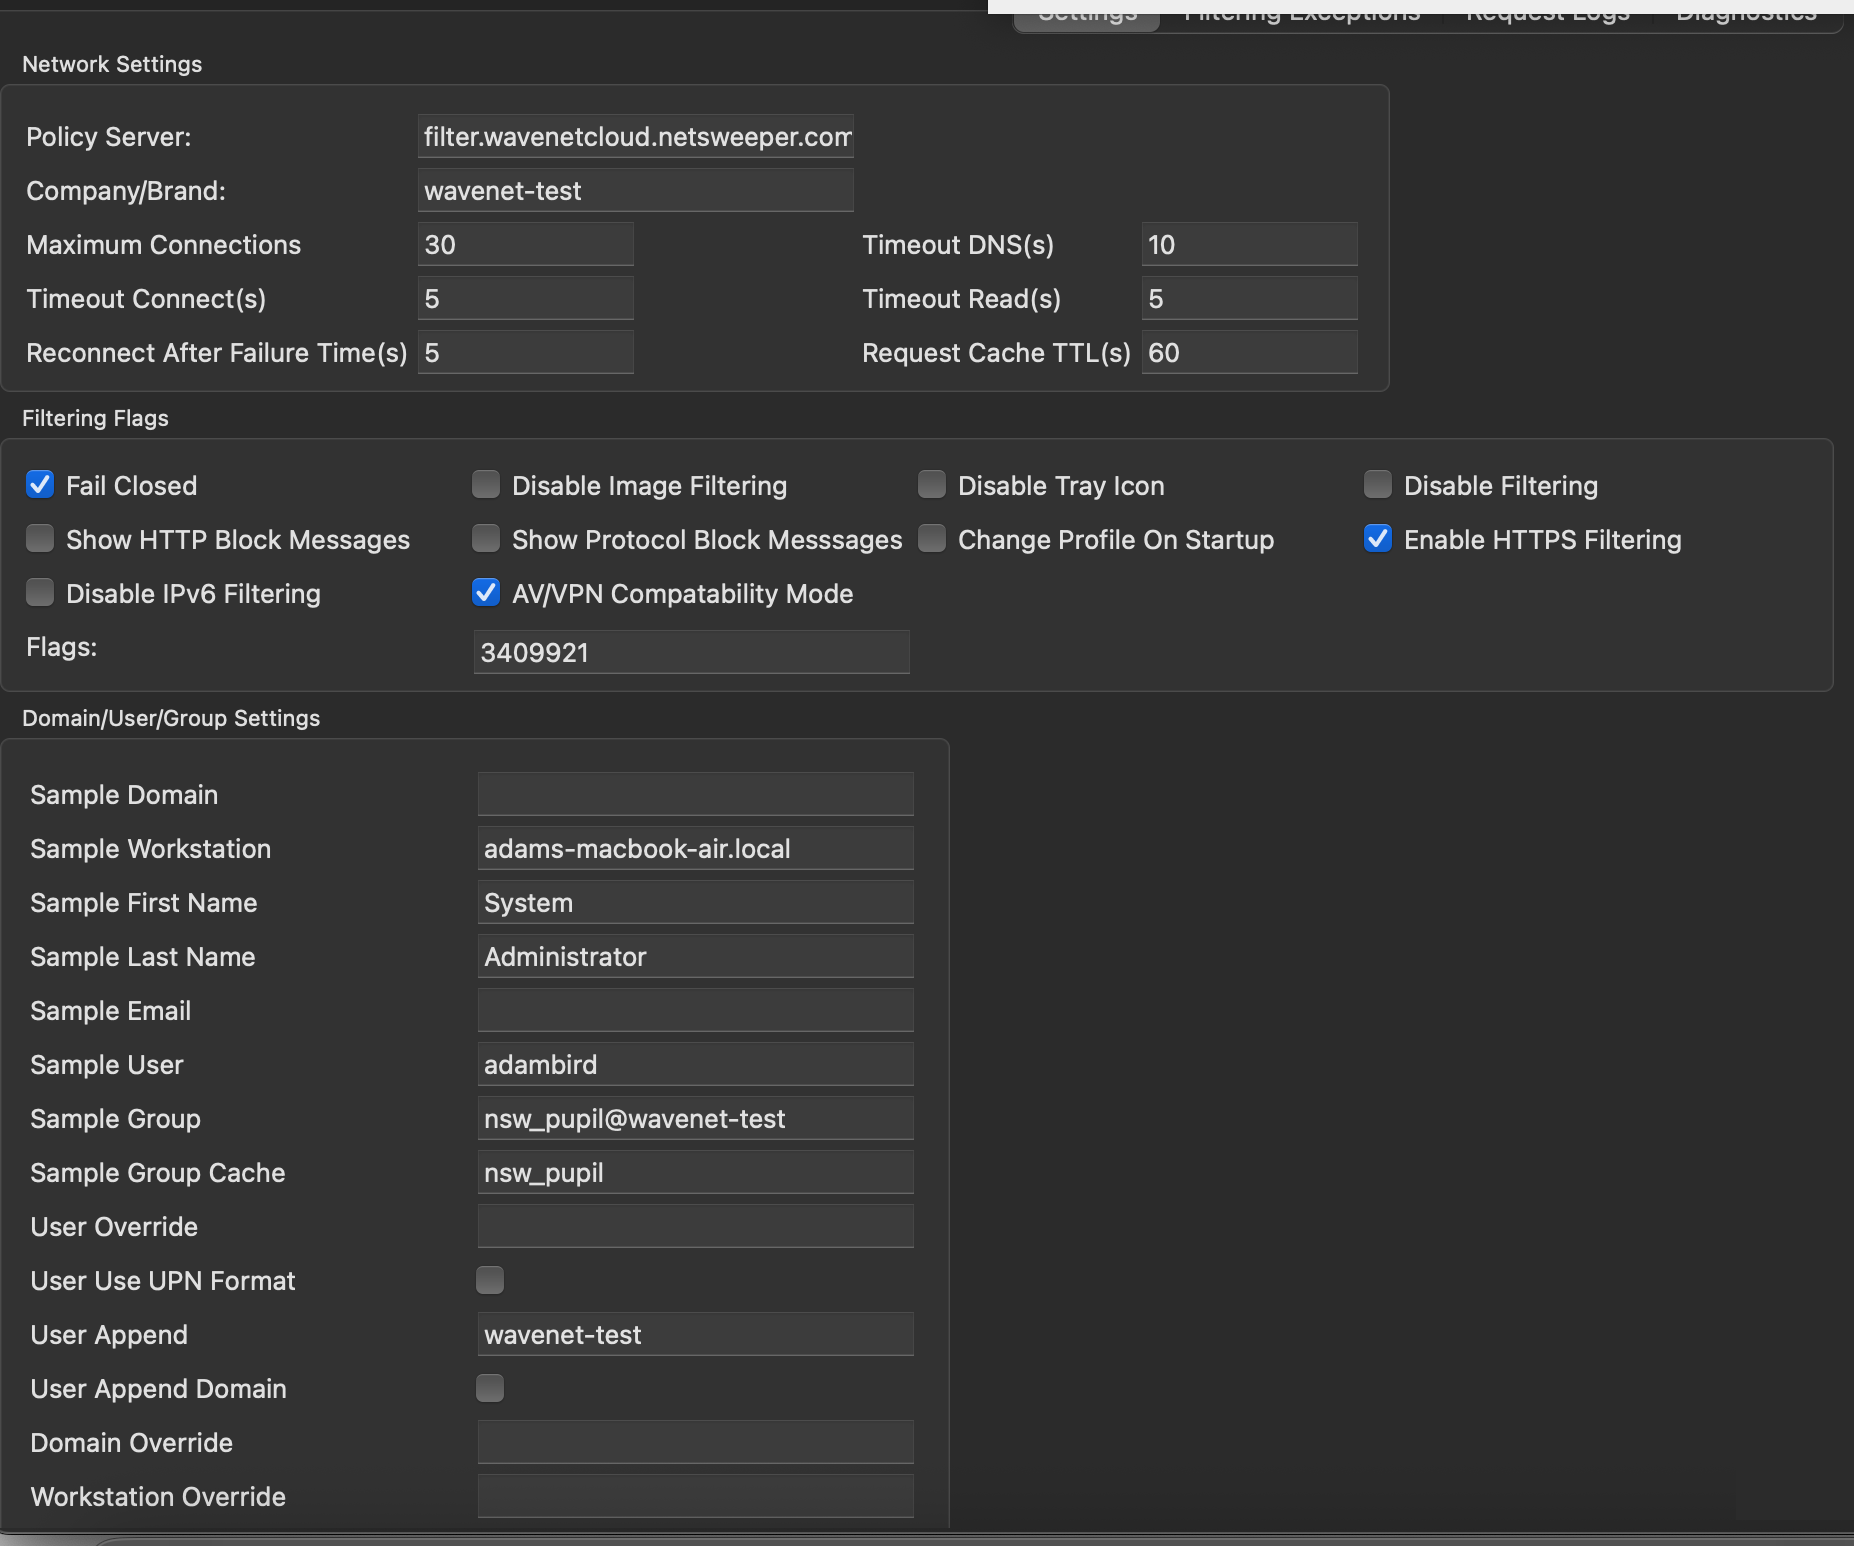
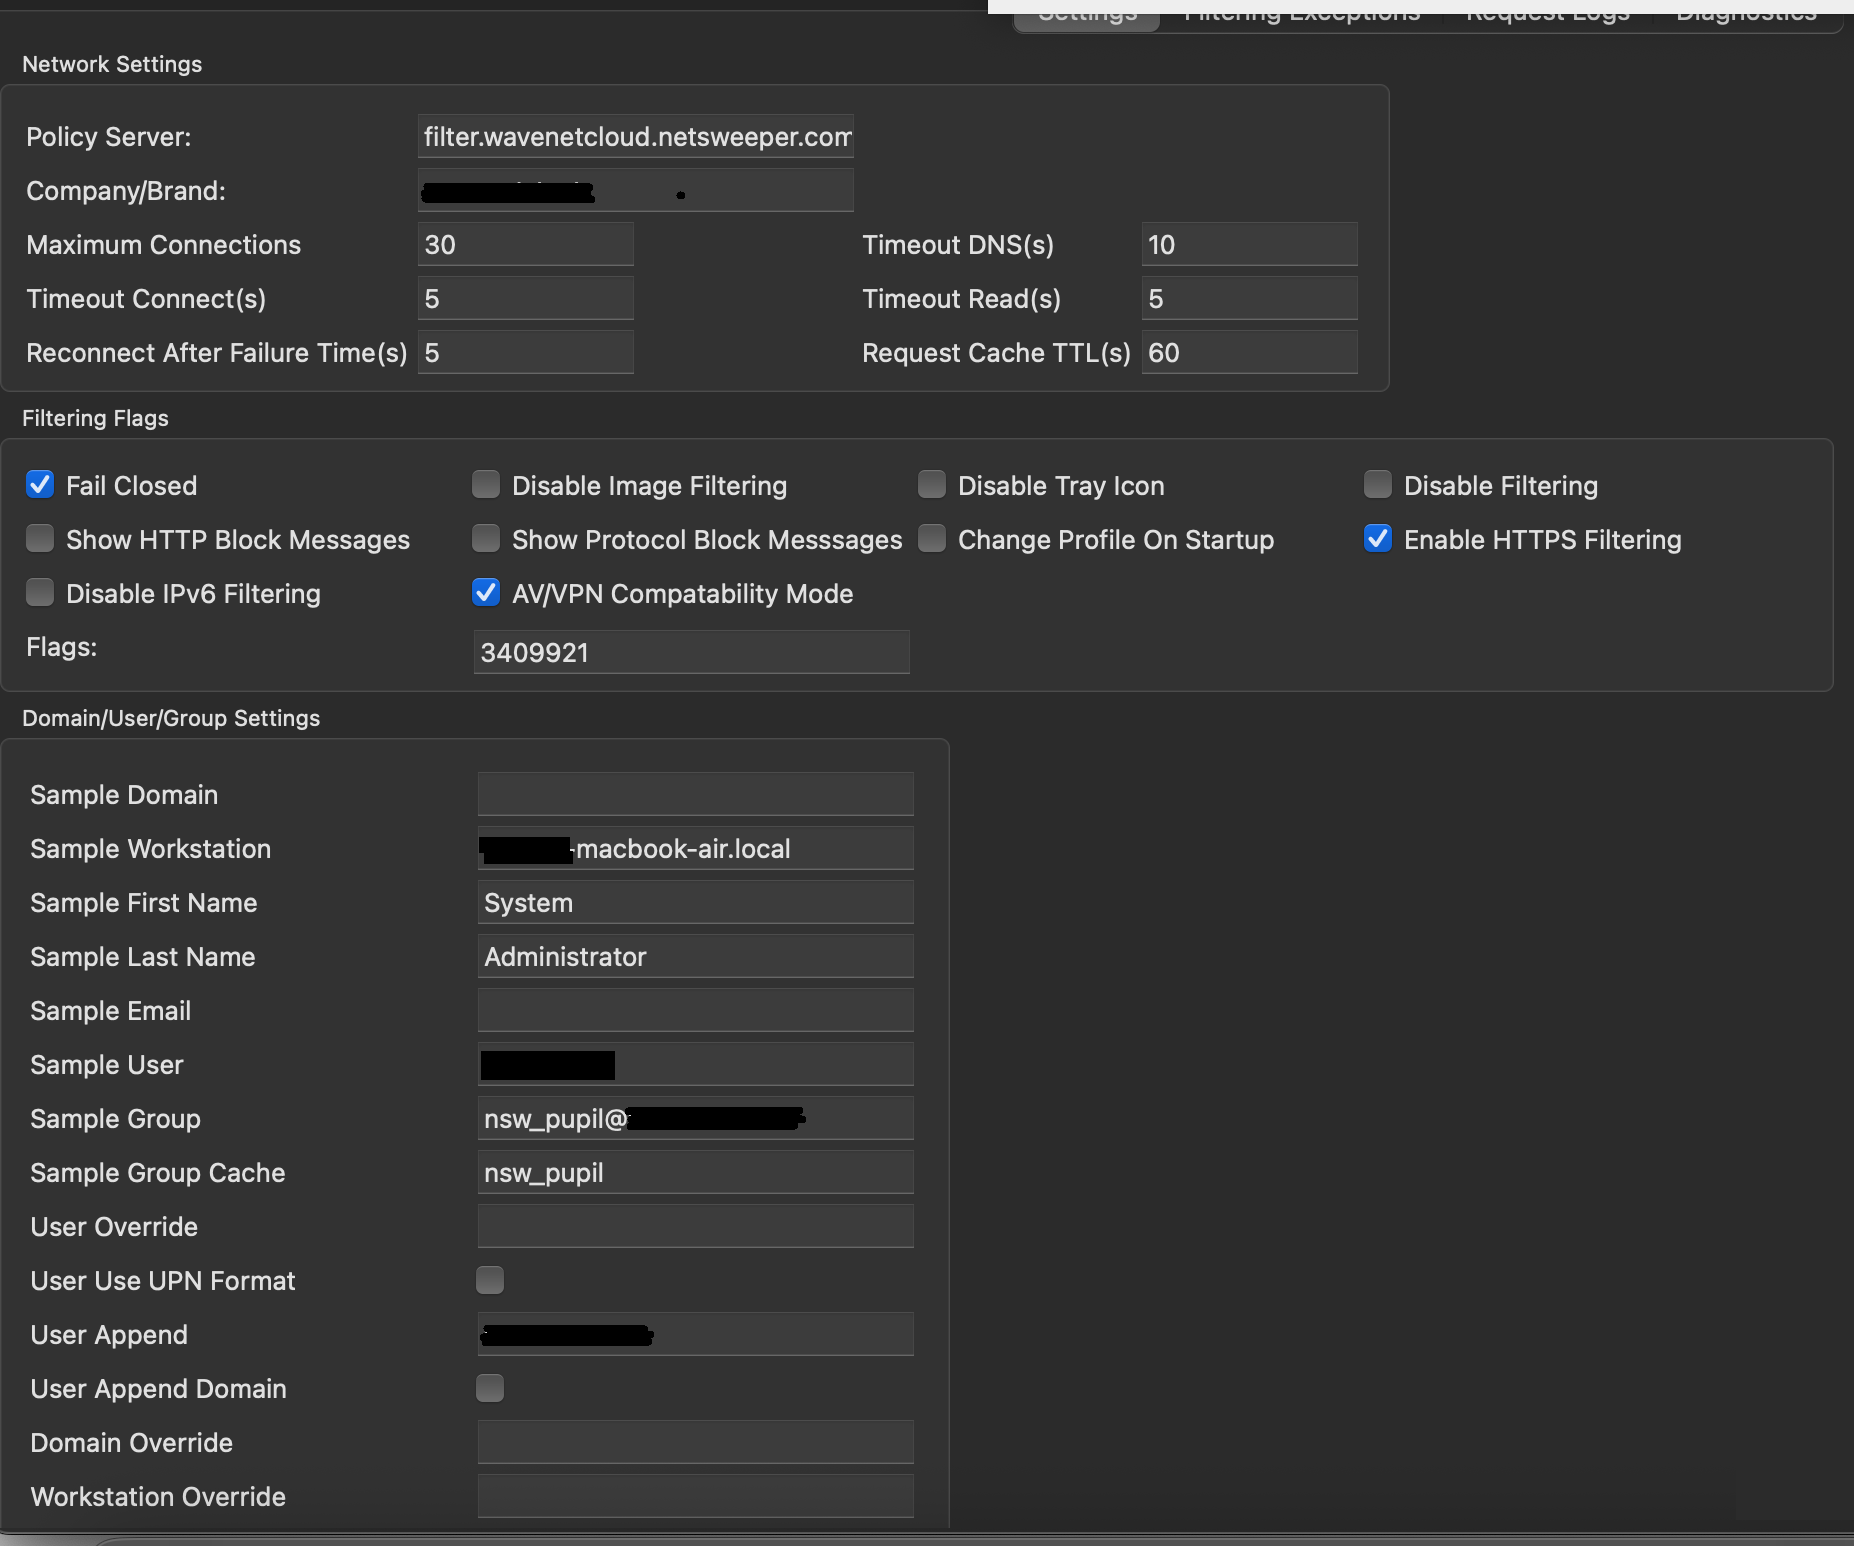
Refactor code structure for improved readability and maintainability

diff --git a/site/Apple/index.html b/site/Apple/index.html
@@ -1019,8 +1019,9 @@ Notice LightspeedMDM requires the DFE code on the "-n" as well as the "-d" optio
 <p>The Wavenet Helpdesk will generate the MACOS Wagent and Client Filter configurations for the below.</p>
 <h3 id="ssl-installation">SSL Installation</h3>
 <p><a href="https://wavenetcloud.netsweeper.com/webadmin/tools/download_proxy_cert.php">SSL Proxy Certificate</a></p>
-<p>Set the permissions on the SSL certificate as below:</p>
+<p>Open "Keychain Access" and under "System" set the permissions on the SSL certificate as below:</p>
 <p><img alt="macos-ssl1" src="../media/apple/macos-ssl1.png" /></p>
+<p><img alt="macos-ssl1" src="../media/apple/macos-ssl2.png" /></p>
 <h3 id="wagent">WAGENT</h3>
 <p>Download the latest <a href="https://repo.netsweeper.com/clientfilter/netsweeper/wagent/Netsweeper%20Workstation%20Agent%20-%204.50.54.54-mac.pkg">WAgent v4.50.54.54</a></p>
 <p>Install the WAgent package, this can be installed in the same way any other MacOS app is installed. Double Click the pkg file and follow the onscreen instructions.</p>
@@ -1033,6 +1034,47 @@ Notice LightspeedMDM requires the DFE code on the "-n" as well as the "-d" optio
 </span></code></pre></div>
 <p>Once this file is copied into place you should restart the Macbook.</p>
 <h3 id="client-filter">Client Filter</h3>
+<p>Download the lastest GA Client Filter currently <a href="https://repo.netsweeper.com/clientfilter/netsweeper/mac/Netsweeper%20Client%20Filter%20-%2012.60.55.55%20universal.pkg">Client Filter v12.60.55.55</a></p>
+<p>Install the WAgent package, this can be installed in the same way any other MacOS app is installed. Double Click the pkg file and follow the onscreen instructions.</p>
+<p><img alt="macos-cf1" src="../media/apple/macos-cf1.png" /></p>
+<p><img alt="macos-cf2" src="../media/apple/macos-cf2.png" /></p>
+<p><img alt="macos-cf3" src="../media/apple/macos-cf3.png" /></p>
+<p><img alt="macos-cf4" src="../media/apple/macos-cf4.png" /></p>
+<p><img alt="macos-cf5" src="../media/apple/macos-cf5.png" /></p>
+<p>Change the policy server URL to:</p>
+<div class="language-text highlight"><pre><span></span><code><span id="__span-4-1"><a id="__codelineno-4-1" name="__codelineno-4-1" href="#__codelineno-4-1"></a>filter.wavenetcloud.netsweeper.com:3431
+</span></code></pre></div>
+<p><img alt="macos-cf6" src="../media/apple/macos-cf6.png" /></p>
+<p>On this next screen, set the "Webadmin URL to:<br />
+<div class="language-text highlight"><pre><span></span><code><span id="__span-5-1"><a id="__codelineno-5-1" name="__codelineno-5-1" href="#__codelineno-5-1"></a>https://wavenetcloud.netsweeper.com/webadmin/
+</span></code></pre></div></p>
+<p><img alt="macos-cf7" src="../media/apple/macos-cf7.png" /></p>
+<p><img alt="macos-cf8" src="../media/apple/macos-cf8.png" /></p>
+<p>Allow the "Netsweeper Client Filter (tpfilter)"</p>
+<p><img alt="macos-cf9" src="../media/apple/macos-cf9.png" /></p>
+<p><img alt="macos-cf10" src="../media/apple/macos-cf10.png" /></p>
+<p>Now in the tray at the top right click the Netsweeper icon and select "Settings"</p>
+<p><img alt="macos-cf11" src="../media/apple/macos-cf11.png" /></p>
+<p>And then select "Filter Settings" on the next screen</p>
+<p><img alt="macos-cf12" src="../media/apple/macos-cf12.png" /></p>
+<p>On this screen we will need to set the following items, these can be provided by the Wavenet Helpdesk</p>
+<ul>
+<li>Company/Brand</li>
+<li>
+<p>Select the approriate "Filtering Flags"</p>
+<ul>
+<li>Fail Closed</li>
+<li>Enable HTTPS Filtering</li>
+<li>AV/VPN Compatability Mode</li>
+</ul>
+</li>
+<li>
+<p>User Append</p>
+</li>
+<li>Group Append</li>
+<li>Group</li>
+</ul>
+<p><img alt="macos-cf13" src="../media/apple/macos-cf13.png" /></p>
 
 
 
